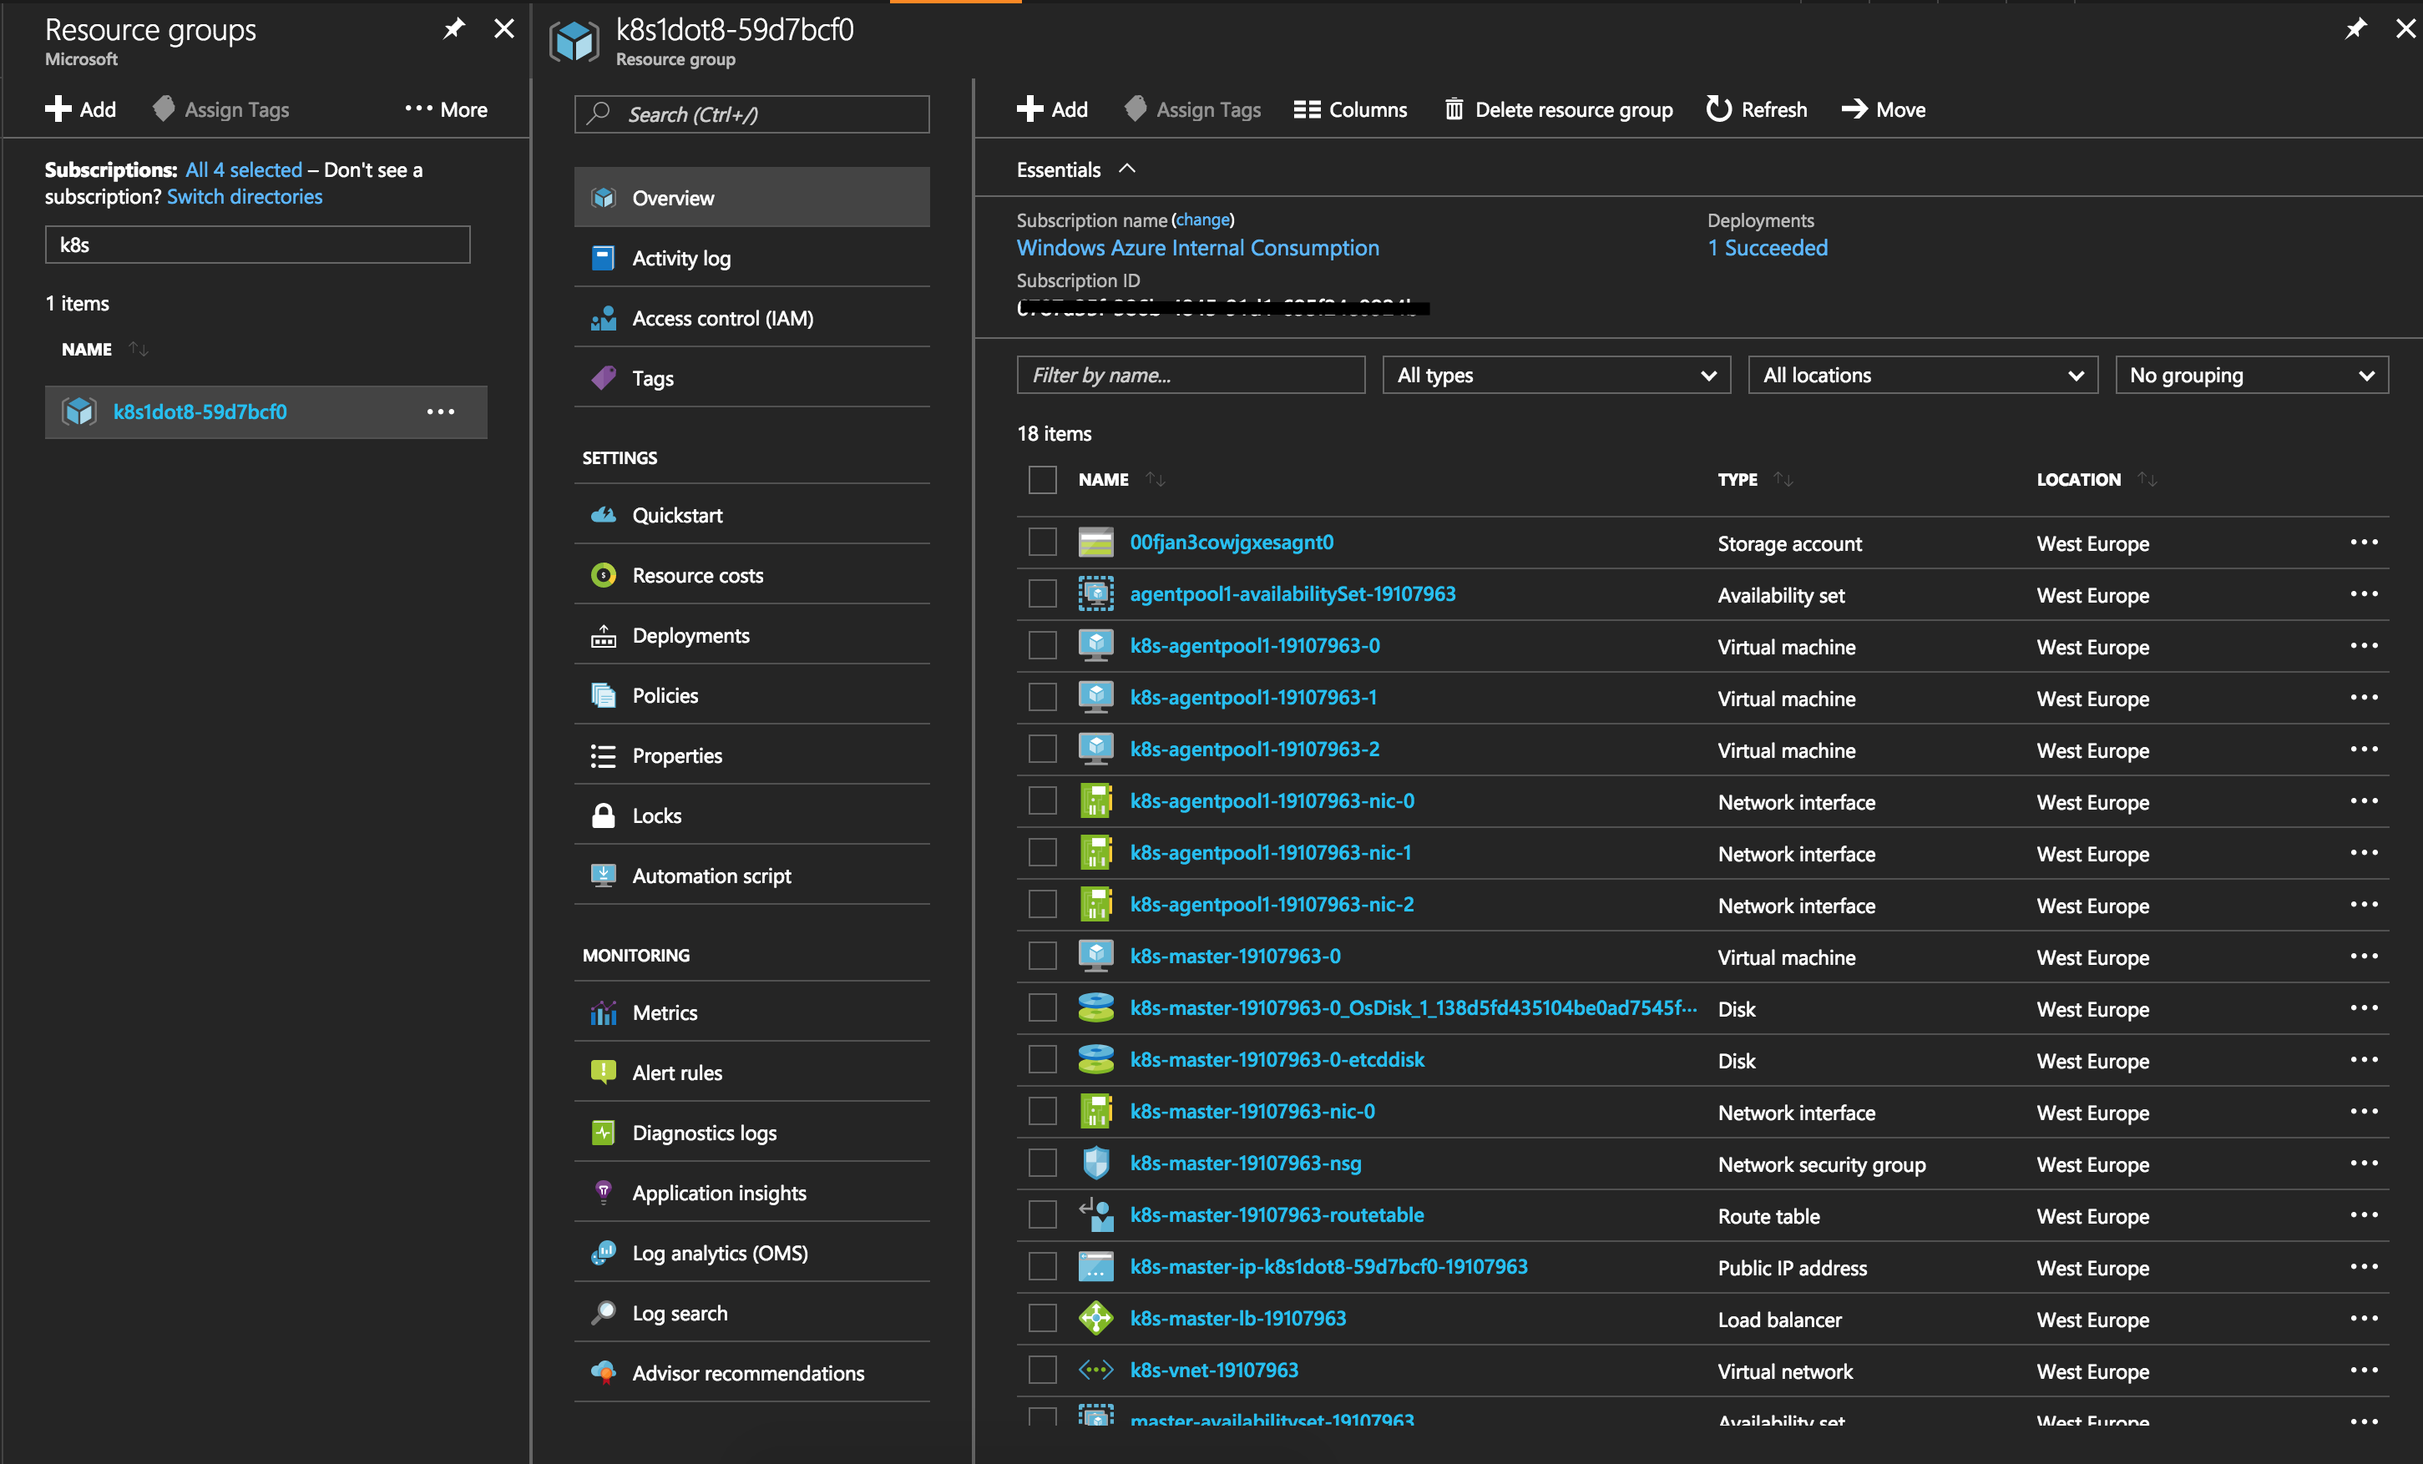
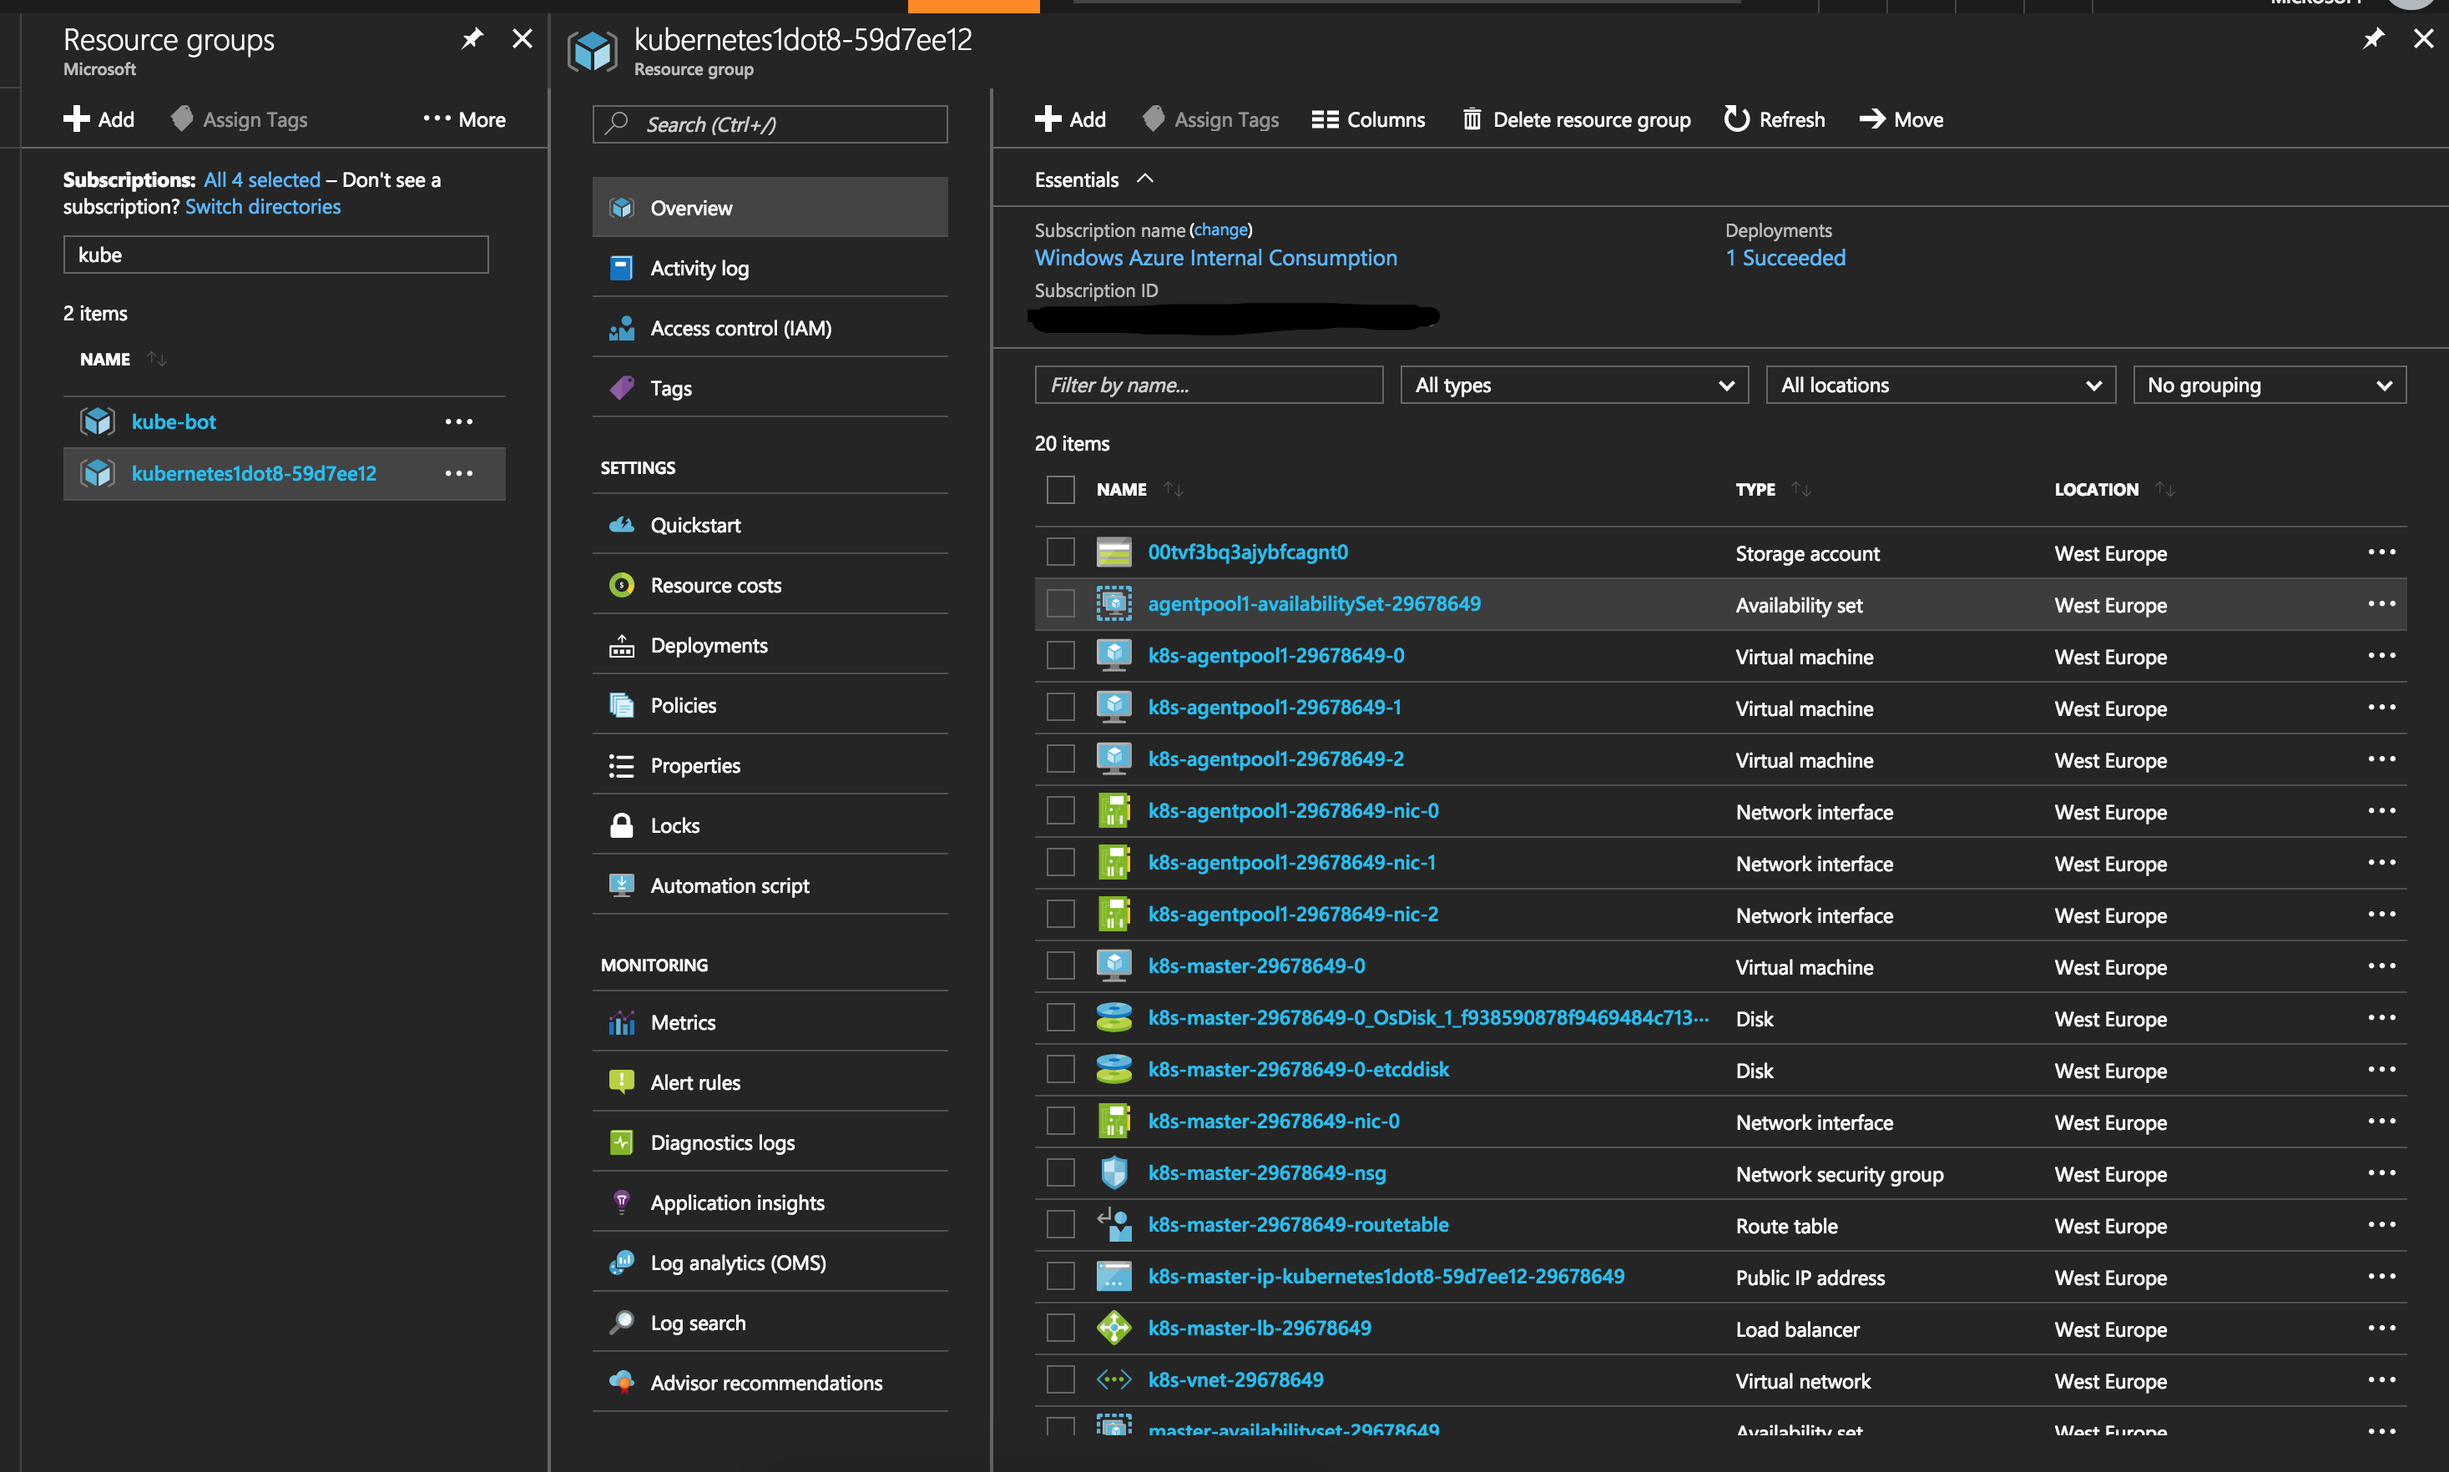
React to the release of acs-engine v0.8.0

diff --git a/content/blog/k8s18-azure.md b/content/blog/k8s18-azure.md
@@ -23,77 +23,49 @@ Deploying orchestrator clusters in Azure
 
 There are a couple of ways to deploy an orchestrator cluster in Azure. First, there is Azure Container Service (that we used in the past to [deploy a Kubernetes cluster](https://radu-matei.com/blog/kubernetes-jenkins-azure/)). [Azure Container Service](https://azure.microsoft.com/en-us/services/container-service/) allows you to easily [deploy Kubernetes, Docker Swarm or DC/OS clusters from the Azure Portal or using the `az` command line](https://docs.microsoft.com/en-us/azure/container-service/). This is the way to go if you don't want to customize your cluster and you are ok with the default values that Azure provides for you.
 
-Then there is a tool called [acs-engine](https://github.com/azure/acs-engine). This is basically the "engine" that Azure Container Service uses to deploy your clusters, and we will use it to deploy a custom version of our Kubernetes cluster, in this case the new 1.8 version.
+Then there is a tool called [`acs-engine`](https://github.com/azure/acs-engine). This is basically the "engine" that Azure Container Service uses to deploy your clusters, and we will use it to deploy a custom version of our Kubernetes cluster, in this case the new 1.8 version.
 
-acs-engine takes a [cluster definition file](https://github.com/Azure/acs-engine/blob/master/docs/clusterdefinition.md) where you can specify options for your cluster (like orchestrator to use - Kubernetes, Docker Swarm Mode, DC/OS and their specific versions, networking policies, master and agent profiles and others) and generates [ARM (Azure Resource Manager) templates](https://docs.microsoft.com/en-us/azure/azure-resource-manager/resource-group-authoring-templates) that Azure uses to deploy all resources for your cluster (VMs for masters and agents with your orchestrator configured, load balancers, networking, storage adn other resources).
+`acs-engine` takes a [cluster definition file](https://github.com/Azure/acs-engine/blob/master/docs/clusterdefinition.md) where you can specify options for your cluster (like orchestrator to use - Kubernetes, Docker Swarm Mode, DC/OS and their specific versions, networking policies, master and agent profiles and others) and generates [ARM (Azure Resource Manager) templates](https://docs.microsoft.com/en-us/azure/azure-resource-manager/resource-group-authoring-templates) that Azure uses to deploy all resources for your cluster (VMs for masters and agents with your orchestrator configured, load balancers, networking, storage adn other resources).
 
-Because Kubernetes 1.8 has just been released, the [latest official stable release for acs-engine, v0.7](https://github.com/Azure/acs-engine/releases/tag/v0.7.0) doesn't support it yet, so will either have to build the binary yourself or use the one for Linux I already built (using the instructions below). 
 
-Please note that if you use the binary I built you can [do the entire process from your browser using Azure Cloud Shell. Steps below :)](#using-the-azure-cloud-shell)
+Kubernetes 1.8 has just been released, and together with it came [v0.8.0 of `acs-engine`](https://github.com/Azure/acs-engine/releases) with support for Kubernetes 1.8.
 
-Building acs-engine yourself using Docker
-=========================================
+You can follow this article on your local machine, inside a Docker container or using the Azure Cloud Shell, and all of these versions being very similar (basically you only change the OS version of the acs-engine binary).
 
-We will use [the official instructions on how to build acs-engine](https://github.com/Azure/acs-engine/blob/master/docs/acsengine.md), more specifically, the case when we have a Docker environment available.
 
-First of all, clone the acs-engine repository locally on your machine:
+Getting the `acs-engine` binary
+=============================
 
-![](/img/article-photos/k8s18-azure/clone-acs-engine.png)
+In this step all you need to do is download the the binary associated with v0.8.0 of `acs-engine` for your operating system. I will use the Azure Cloud Shell, but you can do the same thing for macOS (by getting the Darwin specific binaries) or for Windows.
 
-Then, you need to execute a script, `./scripts/devenv.sh` (for Linux and macOS) or `.\scripts\devenv.ps1` (for Windows) that will basically start a Linux container where you will build acs-engine. This step only has to be executed once.
+First you need to download the GitHub release archive for Linux:
 
-> Please note that this will start a priviledged container that will mount the `docker.sock` socket (among other things)!
-> [See the full script here](https://raw.githubusercontent.com/Azure/acs-engine/master/scripts/devenv.sh)
+`wget https://github.com/Azure/acs-engine/releases/download/v0.8.0/acs-engine-v0.8.0-linux-amd64.tar.gz`
 
-So basically just execute the script that works on your OS, and then you will be left in a command line where you will: `make bootstrap` and `make build`. 
+Then, you need to unarchive it:
 
-After this, you will have the binary in your repo, in the `bin` folder.
+`tar -xvzf acs-engine-v0.8.0-linux-amd64.tar.gz`
 
-> Please note that the binary will not work on macOS or Windows (as the target OS from the build was Linux - since you can cross-compile go programs you can easily set the target for your operating system).
+This will create a folder called `acs-engine-v0.8.0-linux-amd64`, and inside it you will find (among the license and the readme) the `acs-engine` binary.
 
-> Note that you are still inside the container!
 
-![](/img/article-photos/k8s18-azure/docker-acs-engine.png)
+![](/img/article-photos/k8s18-azure/acs-engine-shell.png)
 
-Now you make the file executable and put in your path:
+Now you only need to put it in your path (or move it to a directory that is in your path) and you have the `acs-engine` binary accessible from anywhere.
 
-```
-chmod +x bin/acs-engine
-cp bin/acs-engine /gopath/bin/
-```
-
-![](/img/article-photos/k8s18-azure/path-acs-engine.png)
-
-Now you can either see how to get this into the Azure Cloud Shell, or skip to the part where you actually deploy the cluster from within the container you're in right now.
-
-> Note that using the instruction from GitHub you can [build acs-engine without Docker](https://github.com/Azure/acs-engine/blob/master/docs/acsengine.md#building-on-windows-osx-and-linux).
-
-Using The Azure Cloud Shell
-===========================
-
-Using the exact same steps as presented earlier, I already [built the acs-engine binary and uploaded in a GitHub release inside this repo](https://github.com/radu-matei/acs-engine-k8s1dot8/releases/tag/0.1).
-
-At this point you can log into your Azure Cloud Shell, you can get this binary and make it executable:
-
-`wget https://github.com/radu-matei/acs-engine-k8s1dot8/releases/download/0.1/acs-engine`
-
-`chmod +x acs-engine`
-
-![](/img/article-photos/k8s18-azure/azure-acs-engine.png)
-
-> Please note that it is not recommended to `wget` things from unofficial sources and make them executable inside your Azure Cloud Shell and you should do it at your own risk! 
+We will now use this binary inside the Azure Cloud Shell to deploy a Kubernetes 1.8 cluster to Azure, using a cluster definition template file.
 
 Deploy the cluster
 ==================
 
-Now all you need is a cluster definition file that acs-engine will use to deploy Kubernetes 1.8:
+This is how a typical cluster definition file looks for Kubernetes. Compared to [the example offered in the repo](https://github.com/Azure/acs-engine/blob/master/examples/kubernetes.json), this only adds the `orchestratorRelease` property and sets it to `1.8`.
 
 
 {{< gist radu-matei 7ba751e0074621313b997c12ccf28dbe >}}
 
-The great thing about this version of acs-engine is that you will only need one command to deploy this where you pass a few parameters:
+The great thing about this version of `acs-engine` is that you will only need one command to deploy this where you pass a few parameters (in older versions you would generate ARM templates using `acs-engine` and deploy them with the `az` command line):
 
-- an Azure subscription id
+- an Azure subscription id (you can find it using `az account show`)
 - a DNS prefix for your cluster
 - the location of your cluster
 - the cluster definition file from above
@@ -104,10 +76,8 @@ acs-engine deploy --subscription-id <your-subscription-id> \
     --auto-suffix --api-model kubernetes18.json
 ```
 
-Now simply execute this (be careful if the binary is not in the path - ./acs-engine), you will need to authenticate using the device login and that is about it.
-
-> Note the "orchestratorRelease" property in the JSON file set to 1.8!
-> Note that it automatically creates all assets for you includeing a service principal and a resource group.
+> Note the `orchestratorRelease` property in the JSON file set to `1.8`!
+> Note that it automatically creates all assets for you including a service principal and a resource group.
 
 ![](/img/article-photos/k8s18-azure/shell.png)
 
@@ -120,28 +90,24 @@ The output of the command above is an `_output` folder where you have your SSH k
 
 Now to access the cluster.
 
-> Note that if your are using the container from acs-engine, you should have kubectl (version 1.7)
-> If you are using Azure Cloud Shell (or want to upgrade your kubectl version), simply [follow the instructions here](https://kubernetes.io/docs/tasks/tools/install-kubectl/)
+> Depending on which version of `kubectl` you have installed, you might want to [upgrade to 1.8 as it is detailed here](https://kubernetes.io/docs/tasks/tools/install-kubectl/#install-kubectl-binary-via-curl).
 
 
 Now you need to point your `kubectl` to the `kubeconfig` file location. This has to correspond to the Azure location where you deployed your cluster - in my case West Europe:
 
-`export KUBECONFIG=_output/k8s1dot8-59d7bcf0/kubeconfig/kubeconfig.westeurope.json`
+`export KUBECONFIG=_output/kubernetes1dot8-59d7ee12/kubeconfig/kubeconfig.westeurope.json`
+
+At this point you can use `kubectl` to get information about your cluster and your nodes:
 
 `kubectl get nodes`
 
-![](/img/article-photos/k8s18-azure/18.png)
+![](/img/article-photos/k8s18-azure/k8s18.png)
 
-Note that you have a Kubernetes 1.8 cluster on Azure and you can benefit from the awesome features 1.8 brings!
-
-And from the Azure Cloud Shell:
-![](/img/article-photos/k8s18-azure/shell.png)
-![](/img/article-photos/k8s18-azure/azure.png)
-
+> Note the `v1.8.0`!
 
 Conclusion, feedback wanted :)
 ===============================
 
-In this brief article we saw how to deploy a Kubernetes 1.8 cluster on Azure by building acs-engine ourselves.
+In this brief article we saw how to deploy a Kubernetes 1.8 cluster on Azure using `acs-engine` and the Azure Cloud Shell.
 
 If you have any ideas, comments or feedback, please use the comments below :)
